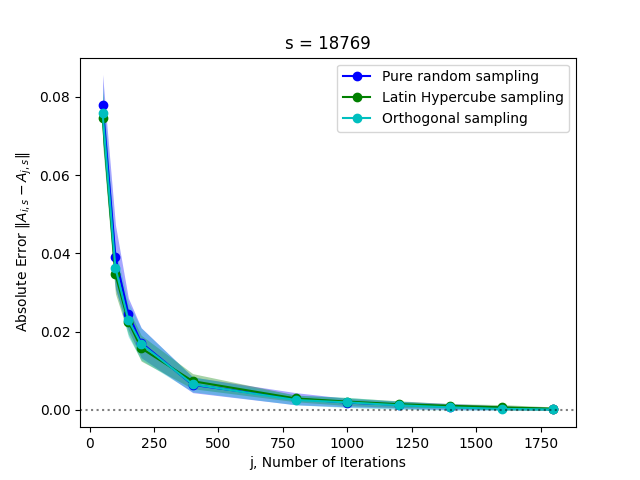
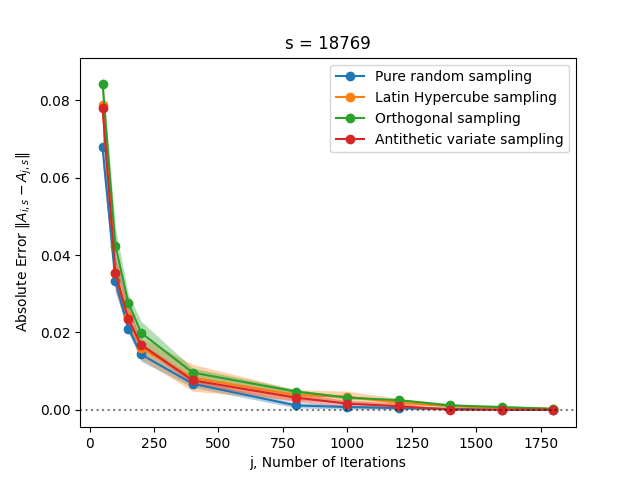
final changes to plots

diff --git a/convergence_analyses.py b/convergence_analyses.py
@@ -58,8 +58,7 @@ def get_j_convergence():
         num_it, res = simulate_j_convergence()
         j_data.append(res)
         # Save to pandas
-        df = pd.DataFrame(res, columns=["Pure Random", "Latin Hypercube", "Orthogonal"])
-        # df = pd.DataFrame(res, columns=["Pure Random", "Latin Hypercube"])
+        df = pd.DataFrame(res, columns=["Pure Random", "Latin Hypercube", "Orthogonal", "antithetic_variate_sampler"])
         df["Number of Iterations"] = num_it
     df.to_csv(filepath, index=False)
     # else:
@@ -67,8 +66,7 @@ def get_j_convergence():
     #     df = pd.read_csv(filepath)
     #     num_it = df["Number of Iterations"]
     #     num_it = num_it.to_numpy()
-    #     # res = df[["Pure Random", "Latin Hypercube", "Orthogonal"]]
-    #     res = df[["Pure Random", "Latin Hypercube"]]
+    #     res = df[["Pure Random", "Latin Hypercube", "Orthogonal", "antithetic_variate_sampler"]]
     #     res = res.to_numpy()
     return num_it, j_data
 
@@ -85,7 +83,7 @@ def get_s_convergence():
         samples, square_primes, res = simulate_s_convergence()
         s_data.append(res)
         # Save to pandas
-        df = pd.DataFrame(res, columns=["Pure Random", "Latin Hypercube", "Orthogonal"])
+        df = pd.DataFrame(res, columns=["Pure Random", "Latin Hypercube", "Orthogonal", "antithetic_variate_sampler"])
         df["samples"] = samples
         df["square-prime-samples"] = square_primes
     df.to_csv(filepath, index=False)
@@ -96,7 +94,7 @@ def get_s_convergence():
     #     samples = samples.to_numpy()
     #     square_primes = df["square-prime-samples"]
     #     square_primes = square_primes.to_numpy()
-    #     res = df[["Pure Random", "Latin Hypercube", "Orthogonal"]]
+    #     res = df[["Pure Random", "Latin Hypercube", "Orthogonal", "antithetic_variate_sampler"]]
     #     res = res.to_numpy()
     return samples, square_primes, s_data
 
@@ -105,7 +103,7 @@ def simulate_j_convergence():
     # Init values
     num_it = [50, 100, 150, 200, 400, 800, 1000, 1200, 1400, 1600, 1800, 2000]
     s = int(18769)
-    sampling_methods = [pure_random_sampler, lh_sampler, orthogonal_sampler]
+    sampling_methods = [pure_random_sampler, lh_sampler, orthogonal_sampler, antithetic_variate_sampler]
     res = np.zeros((len(num_it), len(sampling_methods)))
 
     # Generate approximations
@@ -125,15 +123,17 @@ def simulate_j_convergence():
 
 def plot_j_convergence(num_it, j_data):
     """Plot the convergence of Mandelbrot area estimation for increasing number of iterations"""
-    plt.title("s = 18769")
+    plt.title("Convergence of $\Vert A_{i,k} - A_{j,k} \Vert$ to $A_{i,k}$ $(k=18769)$")
 
     random_data = []
     lh_data = []
     ot_data = []
+    av_data = []
     for res in j_data:
         random_data.append(abs(res[-1, 0] - res[:-1, 0]))
         lh_data.append(abs(res[-1, 1] - res[:-1, 1]))
         ot_data.append(abs(res[-1, 2] - res[:-1, 2]))
+        av_data.append(abs(res[-1, 3] - res[:-1, 3]))
     
     random_mean = np.mean(random_data, axis=0)
     random_std = np.std(random_data, axis=0)
@@ -144,20 +144,25 @@ def plot_j_convergence(num_it, j_data):
     ot_mean = np.mean(ot_data, axis=0)
     ot_std = np.std(ot_data, axis=0)
 
-    plt.plot(num_it[:-1], random_mean, "bo-", label=f"Pure random sampling")
-    plt.plot(num_it[:-1], lh_mean, "go-", label=f"Latin Hypercube sampling")
-    plt.plot(num_it[:-1], ot_mean, "co-", label="Orthogonal sampling")
+    av_mean = np.mean(av_data, axis=0)
+    av_std = np.std(av_data, axis=0)
 
-    plt.fill_between(num_it[:-1], random_mean+random_std, random_mean-random_std, alpha=0.35, color="b", linewidth=0)
-    plt.fill_between(num_it[:-1], lh_mean+lh_std, lh_mean-lh_std, alpha=0.35, color="g", linewidth=0)
-    plt.fill_between(num_it[:-1], ot_mean+ot_std, ot_mean-ot_std, alpha=0.35, color="c", linewidth=0)
+    plt.plot(num_it[:-1], random_mean, "o-", color="tab:blue", label=f"Pure random sampling")
+    plt.plot(num_it[:-1], lh_mean, "o-", color="tab:orange", label=f"Latin Hypercube sampling")
+    plt.plot(num_it[:-1], ot_mean, "o-", color="tab:green", label="Orthogonal sampling")
+    plt.plot(num_it[:-1], av_mean, "o-", color="tab:red", label="Antithetic variate sampling")
+
+    plt.fill_between(num_it[:-1], random_mean+random_std, random_mean-random_std, alpha=0.35, color="tab:blue", linewidth=0)
+    plt.fill_between(num_it[:-1], lh_mean+lh_std, lh_mean-lh_std, alpha=0.35, color="tab:orange", linewidth=0)
+    plt.fill_between(num_it[:-1], ot_mean+ot_std, ot_mean-ot_std, alpha=0.35, color="tab:green", linewidth=0)
+    plt.fill_between(num_it[:-1], av_mean+av_std, av_mean-av_std, alpha=0.35, color="tab:red", linewidth=0)
 
     plt.axhline(0, color="black", alpha=0.5, linestyle="dotted")
 
-    plt.ylabel("Absolute Error $\Vert A_{i,s} - A_{j,s} \Vert$")
-    plt.xlabel("j, Number of Iterations")
+    plt.ylabel("$\Vert A_{i,s} - A_{j,s} \Vert$")
+    plt.xlabel("Number of Iterations $(j)$")
     plt.legend()
-    plt.savefig("Convergence-j.png")
+    plt.savefig("figures/convergence_i-j.png")
     plt.show()
 
 
@@ -190,8 +195,7 @@ def plot_s_convergence(s, square_primes, res):
 
 def simulate_s_convergence():
     # Init number of samples
-    # s = [10e2, 10e3, 10e4, 20e4, 40e4, 60e4, 80e4, 10e5, 20e5, 40e5]  # must be square of prime number for othogonal sampler
-    s = [10e2, 10e3, 10e4, 20e4]
+    s = [10e2, 10e3, 10e4, 20e4, 40e4, 60e4, 80e4, 10e5, 20e5]  # must be square of prime number for othogonal sampler
     
     # Init number of samples for orthogonal sampler - have to be square prime numbers!
     square_primes = generate_square_primes(s)
@@ -199,7 +203,7 @@ def simulate_s_convergence():
 
     # Init sampling methods, number of iterations, results array
     num_it = [2000]
-    sampling_methods = [pure_random_sampler, lh_sampler, orthogonal_sampler]
+    sampling_methods = [pure_random_sampler, lh_sampler, orthogonal_sampler, antithetic_variate_sampler]
     res = np.zeros((len(s), len(sampling_methods)))
 
     # Generate approximations
@@ -234,16 +238,19 @@ def generate_square_primes(s):
     return square_primes
 
 
-def plot_A_convergence(samples, square_primes, s_data):
+def plot_A_convergence(square_primes, data, data_name):
     plt.axhline(MANDEL_AREA, color="black", linestyle="dashed", label="True Value")
 
     random_data = []
     lh_data = []
     ot_data = []
-    for res in s_data:
+    av_data = []
+
+    for res in data:
         random_data.append(res[:, 0])
         lh_data.append(res[:, 1])
         ot_data.append(res[:, 2])
+        av_data.append(res[:, 3])
 
     random_mean = np.mean(random_data, axis=0)
     random_std = np.std(random_data, axis=0)
@@ -254,28 +261,56 @@ def plot_A_convergence(samples, square_primes, s_data):
     ot_mean = np.mean(ot_data, axis=0)
     ot_std = np.std(ot_data, axis=0)
 
-    plt.plot(square_primes, random_mean, "bo-", label=f"Pure random sampling")
-    plt.plot(square_primes, lh_mean, "go-", label=f"Latin Hypercube sampling")
-    plt.plot(square_primes, ot_mean, "co-", label="Orthogonal sampling")
+    av_mean = np.mean(av_data, axis=0)
+    av_std = np.std(av_data, axis=0)
 
-    plt.fill_between(square_primes, random_mean+random_std, random_mean-random_std, alpha=0.35, color="b", linewidth=0)
-    plt.fill_between(square_primes, lh_mean+lh_std, lh_mean-lh_std, alpha=0.35, color="g", linewidth=0)
-    plt.fill_between(square_primes, ot_mean+ot_std, ot_mean-ot_std, alpha=0.35, color="c", linewidth=0)
+    plt.plot(square_primes, random_mean, "o-", color="tab:blue", label="Pure random sampling")
+    plt.plot(square_primes, lh_mean, "o-", color="tab:orange", label="Latin Hypercube sampling")
+    plt.plot(square_primes, ot_mean, "o-", color="tab:green", label="Orthogonal sampling")
+    plt.plot(square_primes, av_mean, "o-", color="tab:red", label="Antithetic variate sampling")
 
-    # plt.plot(square_primes, res[:, 0], "bo-", label="Pure Random Sampling")
-    # plt.plot(square_primes, res[:, 1], "go-", label="Latin Hypercube Sampling")
-    # plt.plot(square_primes, res[:,2], "co-", label="Orthogonal Sampling")
+    plt.fill_between(square_primes, random_mean+random_std, random_mean-random_std, alpha=0.35, color="tab:blue", linewidth=0)
+    plt.fill_between(square_primes, lh_mean+lh_std, lh_mean-lh_std, alpha=0.35, color="tab:orange", linewidth=0)
+    plt.fill_between(square_primes, ot_mean+ot_std, ot_mean-ot_std, alpha=0.35, color="tab:green", linewidth=0)
+    plt.fill_between(square_primes, av_mean+av_std, av_mean-av_std, alpha=0.35, color="tab:red", linewidth=0)
+
     plt.legend()
-    plt.xlabel("k, Number of Samples")
+    
+    if data_name == "k":
+        plt.xlabel("Number of Samples $(k)$")
+        plt.title("Convergence of Mandelbrot Area Approximation\nfor Different Sampling Methods $(j=2000)$")
+    elif data_name == "j":
+        plt.xlabel("Number of Iterations $(j)$")
+        plt.title("Convergence of Mandelbrot Area Approximation\nfor Different Sampling Methods $(k=18769)$")
+
     plt.ylabel("Estimated Area of Mandelbrot Set")
-    plt.title("Convergence of Mandelbrot Area Approximation \n for Different Sampling Methods")
-    plt.savefig("convergence-a.png")
+    plt.savefig(f"figures/convergence_a_{data_name}.png")
+    plt.show()
+
+    # plot std
+    plt.plot(square_primes, random_std, "o-", color="tab:blue", label="Pure random sampling")
+    plt.plot(square_primes, lh_std, "o-", color="tab:orange", label="Latin Hypercube sampling")
+    plt.plot(square_primes, ot_std, "o-", color="tab:green", label="Orthogonal sampling")
+    plt.plot(square_primes, av_std, "o-", color="tab:red", label="Antithetic variate sampling")
+
+    plt.ylim(bottom=0)
+    
+    plt.legend()
+    if data_name == "k":
+        plt.xlabel("Number of Samples $(k)$")
+        plt.title("Standard Deviation of estimated Area over 10 Simulations\nfor different Sampling Methods $(j=2000)$")
+    elif data_name == "j":
+        plt.xlabel("Number of Iterations $(j)$")
+        plt.title("Standard Deviation of estimated Area over 10 Simulations\nfor different Sampling Methods $(k=18769)$")
+    plt.ylabel("Standard Deviation")
+    plt.savefig(f"figures/standard_deviation_{data_name}.png")
     plt.show()
 
 
 if __name__ == '__main__':
-    # num_it, j_data = get_j_convergence()
-    # plot_j_convergence(num_it, j_data)
+    num_it, j_data = get_j_convergence()
+    plot_j_convergence(num_it, j_data)
+    plot_A_convergence(num_it, j_data, "j")
     samples, square_primes, s_data = get_s_convergence()
     # plot_s_convergence(samples, square_primes, s_data)
-    plot_A_convergence(samples, square_primes, s_data)
+    plot_A_convergence(square_primes, s_data, "k")

diff --git a/calculate_area.py b/calculate_area.py
@@ -21,6 +21,20 @@ def lh_sampler(s):
     return sample[:, 0], sample[:, 1]
 
 
+def antithetic_variate_sampler(s):
+    """Draw 2 vectors of antithetic variates."""
+    rand1 = np.zeros(s)
+    rand2 = np.zeros(s)
+    for i in range(s):
+        if i % 2 == 0:
+            rand1[i] = np.random.random()
+            rand2[i] = np.random.random()
+        else:
+            rand1[i] = 1 - rand1[i-1]
+            rand2[i] = 1 - rand2[i-1]
+    return rand1, rand2
+
+
 def orthogonal_sampler(s):
     """Draw 2 random number samples of size s from orthogonal sampler. NB: s has to be the square root of a prime number."""
     sampler = qmc.LatinHypercube(d=2, strength=2)
